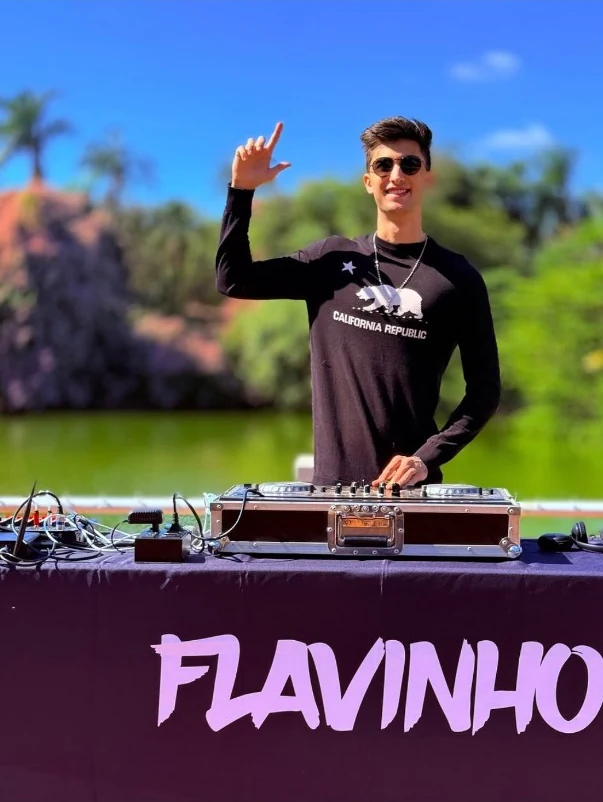
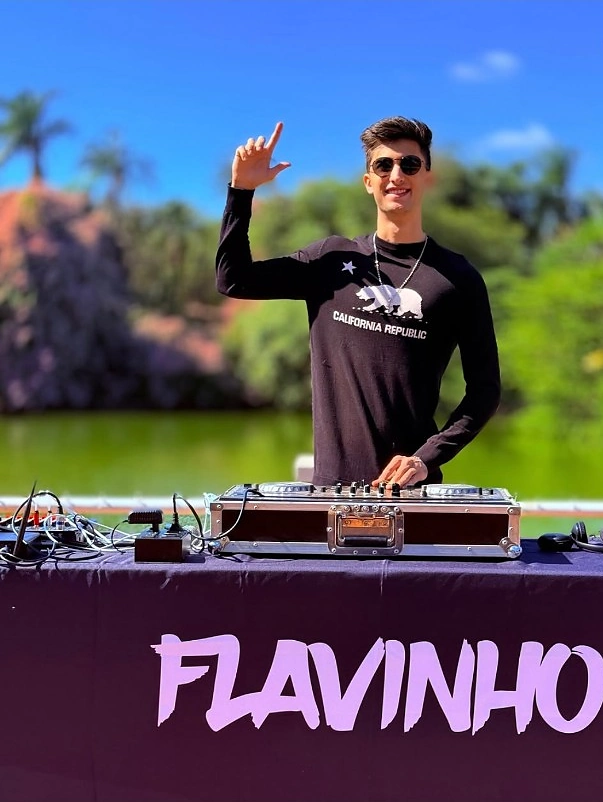
Melhora nitidez das fotos, remove legendas e inclui foto da página Sobre

diff --git a/fotos.html b/fotos.html
@@ -4,7 +4,7 @@
 <meta charset="utf-8"><meta name="viewport" content="width=device-width, initial-scale=1"><meta name="theme-color" content="#07080d">
 <meta name="description" content="Flavinnho. Música, energia e conexão. Conheça o artista e acompanhe as próximas novidades.">
 <title>Fotos — Flavinnho</title>
-<link rel="icon" href="./assets/favicon.svg" type="image/svg+xml"><link rel="preload" as="image" href="./assets/flavinnho-live.jpg?v=2"><link rel="stylesheet" href="./styles.css?v=3"><link rel="stylesheet" href="./reference-theme.css?v=11"><link rel="stylesheet" href="./gallery.css?v=1"><script src="./script.js?v=4" defer></script><script src="./gallery.js?v=1" defer></script>
+<link rel="icon" href="./assets/favicon.svg" type="image/svg+xml"><link rel="preload" as="image" href="./assets/flavinnho-live.jpg?v=2"><link rel="stylesheet" href="./styles.css?v=3"><link rel="stylesheet" href="./reference-theme.css?v=11"><link rel="stylesheet" href="./gallery.css?v=2"><script src="./script.js?v=4" defer></script><script src="./gallery.js?v=2" defer></script>
 </head>
 <body class="page-fotos">
 <a class="skip-link" href="#conteudo">Pular para o conteúdo</a><div class="stage" aria-hidden="true"></div>
@@ -17,22 +17,23 @@
 <div class="gallery-heading"><p class="eyebrow">PELA LENTE</p><h2 id="photos-title">SONS QUE VIRAM <em>HISTÓRIAS.</em></h2><p class="gallery-intro">Cada palco, uma história. Cada foto, um pouco dessa energia.</p></div>
 <div class="photo-carousel" role="region" aria-roledescription="carrossel" aria-label="Fotos do Flavinnho">
 <div class="photo-deck">
-<a class="photo-card" href="./assets/galeria/palco-azul.webp" style="--photo-position:50%" aria-label="Abrir foto 1: Flavinnho de headphones tocando sob a luz azul do palco"><img src="./assets/galeria/palco-azul.webp" alt="Flavinnho de headphones tocando sob a luz azul do palco" width="603" height="920" loading="eager" draggable="false"><span class="photo-card-hint" aria-hidden="true">VER FOTO <span>↗</span></span></a>
-<a class="photo-card" href="./assets/galeria/energia-no-palco.webp" style="--photo-position:30%" aria-label="Abrir foto 2: Flavinnho sorrindo com um canhão de efeitos no palco"><img src="./assets/galeria/energia-no-palco.webp" alt="Flavinnho sorrindo com um canhão de efeitos no palco" width="690" height="466" loading="eager" draggable="false"><span class="photo-card-hint" aria-hidden="true">VER FOTO <span>↗</span></span></a>
-<a class="photo-card" href="./assets/galeria/ao-ar-livre.webp" style="--photo-position:50%" aria-label="Abrir foto 3: Flavinnho de óculos escuros com a mão levantada em uma apresentação ao ar livre"><img src="./assets/galeria/ao-ar-livre.webp" alt="Flavinnho de óculos escuros com a mão levantada em uma apresentação ao ar livre" width="603" height="802" loading="eager" draggable="false"><span class="photo-card-hint" aria-hidden="true">VER FOTO <span>↗</span></span></a>
-<a class="photo-card" href="./assets/galeria/na-controladora.webp" style="--photo-position:50%" aria-label="Abrir foto 4: Flavinnho concentrado na controladora em um ambiente escuro"><img src="./assets/galeria/na-controladora.webp" alt="Flavinnho concentrado na controladora em um ambiente escuro" width="603" height="920" loading="lazy" draggable="false"><span class="photo-card-hint" aria-hidden="true">VER FOTO <span>↗</span></span></a>
-<a class="photo-card" href="./assets/galeria/no-microfone.webp" style="--photo-position:50%" aria-label="Abrir foto 5: Flavinnho cantando ao microfone durante uma apresentação"><img src="./assets/galeria/no-microfone.webp" alt="Flavinnho cantando ao microfone durante uma apresentação" width="603" height="920" loading="lazy" draggable="false"><span class="photo-card-hint" aria-hidden="true">VER FOTO <span>↗</span></span></a>
-<a class="photo-card" href="./assets/galeria/retrato.webp" style="--photo-position:50%" aria-label="Abrir foto 6: Flavinnho sorrindo em frente a uma parede colorida"><img src="./assets/galeria/retrato.webp" alt="Flavinnho sorrindo em frente a uma parede colorida" width="603" height="920" loading="lazy" draggable="false"><span class="photo-card-hint" aria-hidden="true">VER FOTO <span>↗</span></span></a>
-<a class="photo-card" href="./assets/galeria/set-externo.webp" style="--photo-position:50%" aria-label="Abrir foto 7: Flavinnho tocando ao ar livre com um lago ao fundo"><img src="./assets/galeria/set-externo.webp" alt="Flavinnho tocando ao ar livre com um lago ao fundo" width="603" height="798" loading="lazy" draggable="false"><span class="photo-card-hint" aria-hidden="true">VER FOTO <span>↗</span></span></a>
-<a class="photo-card" href="./assets/galeria/voz-e-musica.webp" style="--photo-position:65%" aria-label="Abrir foto 8: Flavinnho com microfone e headphones ao lado da controladora"><img src="./assets/galeria/voz-e-musica.webp" alt="Flavinnho com microfone e headphones ao lado da controladora" width="603" height="460" loading="lazy" draggable="false"><span class="photo-card-hint" aria-hidden="true">VER FOTO <span>↗</span></span></a>
-<a class="photo-card" href="./assets/galeria/producao.webp" style="--photo-position:50%" aria-label="Abrir foto 9: Flavinnho tocando em uma controladora Pioneer DJ"><img src="./assets/galeria/producao.webp" alt="Flavinnho tocando em uma controladora Pioneer DJ" width="1050" height="1400" loading="eager" draggable="false"><span class="photo-card-hint" aria-hidden="true">VER FOTO <span>↗</span></span></a>
-<a class="photo-card" href="./assets/galeria/retrato-retro.webp" style="--photo-position:50%" aria-label="Abrir foto 10: Retrato estilizado de Flavinnho com jaqueta de couro em frente à controladora"><img src="./assets/galeria/retrato-retro.webp" alt="Retrato estilizado de Flavinnho com jaqueta de couro em frente à controladora" width="620" height="804" loading="eager" draggable="false"><span class="photo-card-hint" aria-hidden="true">VER FOTO <span>↗</span></span></a>
+<a class="photo-card" href="./assets/galeria/palco-azul.webp?v=2" style="--photo-position:50%" aria-label="Abrir foto 1: Flavinnho de headphones tocando sob a luz azul do palco"><img src="./assets/galeria/palco-azul.webp?v=2" alt="Flavinnho de headphones tocando sob a luz azul do palco" width="603" height="920" loading="eager" draggable="false"><span class="photo-card-hint" aria-hidden="true">VER FOTO <span>↗</span></span></a>
+<a class="photo-card" href="./assets/galeria/energia-no-palco.webp?v=2" style="--photo-position:30%" aria-label="Abrir foto 2: Flavinnho sorrindo com um canhão de efeitos no palco"><img src="./assets/galeria/energia-no-palco.webp?v=2" alt="Flavinnho sorrindo com um canhão de efeitos no palco" width="690" height="466" loading="eager" draggable="false"><span class="photo-card-hint" aria-hidden="true">VER FOTO <span>↗</span></span></a>
+<a class="photo-card" href="./assets/galeria/ao-ar-livre.webp?v=2" style="--photo-position:50%" aria-label="Abrir foto 3: Flavinnho de óculos escuros com a mão levantada em uma apresentação ao ar livre"><img src="./assets/galeria/ao-ar-livre.webp?v=2" alt="Flavinnho de óculos escuros com a mão levantada em uma apresentação ao ar livre" width="603" height="802" loading="eager" draggable="false"><span class="photo-card-hint" aria-hidden="true">VER FOTO <span>↗</span></span></a>
+<a class="photo-card" href="./assets/galeria/na-controladora.webp?v=2" style="--photo-position:50%" aria-label="Abrir foto 4: Flavinnho concentrado na controladora em um ambiente escuro"><img src="./assets/galeria/na-controladora.webp?v=2" alt="Flavinnho concentrado na controladora em um ambiente escuro" width="603" height="920" loading="lazy" draggable="false"><span class="photo-card-hint" aria-hidden="true">VER FOTO <span>↗</span></span></a>
+<a class="photo-card" href="./assets/galeria/no-microfone.webp?v=2" style="--photo-position:50%" aria-label="Abrir foto 5: Flavinnho cantando ao microfone durante uma apresentação"><img src="./assets/galeria/no-microfone.webp?v=2" alt="Flavinnho cantando ao microfone durante uma apresentação" width="603" height="920" loading="lazy" draggable="false"><span class="photo-card-hint" aria-hidden="true">VER FOTO <span>↗</span></span></a>
+<a class="photo-card" href="./assets/galeria/retrato.webp?v=2" style="--photo-position:50%" aria-label="Abrir foto 6: Flavinnho sorrindo em frente a uma parede colorida"><img src="./assets/galeria/retrato.webp?v=2" alt="Flavinnho sorrindo em frente a uma parede colorida" width="603" height="920" loading="lazy" draggable="false"><span class="photo-card-hint" aria-hidden="true">VER FOTO <span>↗</span></span></a>
+<a class="photo-card" href="./assets/galeria/set-externo.webp?v=2" style="--photo-position:50%" aria-label="Abrir foto 7: Flavinnho tocando ao ar livre com um lago ao fundo"><img src="./assets/galeria/set-externo.webp?v=2" alt="Flavinnho tocando ao ar livre com um lago ao fundo" width="603" height="798" loading="lazy" draggable="false"><span class="photo-card-hint" aria-hidden="true">VER FOTO <span>↗</span></span></a>
+<a class="photo-card" href="./assets/galeria/voz-e-musica.webp?v=2" style="--photo-position:65%" aria-label="Abrir foto 8: Flavinnho com microfone e headphones ao lado da controladora"><img src="./assets/galeria/voz-e-musica.webp?v=2" alt="Flavinnho com microfone e headphones ao lado da controladora" width="603" height="460" loading="lazy" draggable="false"><span class="photo-card-hint" aria-hidden="true">VER FOTO <span>↗</span></span></a>
+<a class="photo-card" href="./assets/galeria/producao.webp?v=2" style="--photo-position:50%" aria-label="Abrir foto 9: Flavinnho tocando em uma controladora Pioneer DJ"><img src="./assets/galeria/producao.webp?v=2" alt="Flavinnho tocando em uma controladora Pioneer DJ" width="1152" height="1536" loading="eager" draggable="false"><span class="photo-card-hint" aria-hidden="true">VER FOTO <span>↗</span></span></a>
+<a class="photo-card" href="./assets/galeria/retrato-retro.webp?v=2" style="--photo-position:50%" aria-label="Abrir foto 10: Retrato estilizado de Flavinnho com jaqueta de couro em frente à controladora"><img src="./assets/galeria/retrato-retro.webp?v=2" alt="Retrato estilizado de Flavinnho com jaqueta de couro em frente à controladora" width="620" height="804" loading="eager" draggable="false"><span class="photo-card-hint" aria-hidden="true">VER FOTO <span>↗</span></span></a>
+<a class="photo-card" href="./assets/flavinnho-sorrindo.jpg" style="--photo-position:50%" aria-label="Abrir foto 11: Flavinnho sorrindo no palco iluminado de azul"><img src="./assets/flavinnho-sorrindo.jpg" alt="Flavinnho sorrindo no palco iluminado de azul" width="1152" height="1536" loading="eager" draggable="false"><span class="photo-card-hint" aria-hidden="true">VER FOTO <span>↗</span></span></a>
 </div>
-<div class="gallery-controls" hidden><button type="button" class="gallery-arrow" data-direction="-1" aria-label="Foto anterior">←</button><span class="gallery-counter" aria-hidden="true">01 <span>/ 10</span></span><button type="button" class="gallery-arrow" data-direction="1" aria-label="Próxima foto">→</button><button type="button" class="gallery-play" aria-label="Pausar passagem automática">PAUSAR <span aria-hidden="true">Ⅱ</span></button></div>
-<p class="gallery-hint" hidden>Arraste para explorar · Toque na foto central para ampliar</p>
+<div class="gallery-controls" hidden><button type="button" class="gallery-arrow" data-direction="-1" aria-label="Foto anterior">←</button><span class="gallery-counter" aria-hidden="true">01 <span>/ 11</span></span><button type="button" class="gallery-arrow" data-direction="1" aria-label="Próxima foto">→</button><button type="button" class="gallery-play" aria-label="Pausar passagem automática">PAUSAR <span aria-hidden="true">Ⅱ</span></button></div>
+
 <p class="gallery-status sr-only" aria-live="polite" aria-atomic="true"></p>
 </div>
-<dialog class="photo-viewer" aria-label="Foto ampliada"><button type="button" class="viewer-close" aria-label="Fechar foto" autofocus>×</button><img alt=""><p class="viewer-caption"></p></dialog>
+<dialog class="photo-viewer" aria-label="Foto ampliada"><button type="button" class="viewer-close" aria-label="Fechar foto" autofocus>×</button><img alt=""></dialog>
 </section>
 </main>
 <footer><a class="wordmark" href="./index.html" aria-label="Flavinnho — voltar ao início"><img src="./assets/flavinnho-logo.svg" alt="Flavinnho" width="793" height="149"></a><p>MÚSICA · ENERGIA · CONEXÃO</p><a class="back-top" href="#conteudo">VOLTAR AO TOPO ↑</a><small>© <span id="year">2026</span> Flavinnho</small></footer>

diff --git a/gallery.css b/gallery.css
@@ -18,20 +18,18 @@ html { scrollbar-gutter: stable; }
 .photo-carousel button { color: white; font-family: inherit; cursor: pointer; }
 .photo-carousel button:focus-visible, .photo-card:focus-visible, .viewer-close:focus-visible { outline: 2px solid #e7baff; outline-offset: 5px; }
 .gallery-controls { display: flex; align-items: center; justify-content: center; gap: 20px; margin: 12px 20px 0; }
-.gallery-controls[hidden], .gallery-hint[hidden] { display: none; }
+.gallery-controls[hidden] { display: none; }
 .gallery-arrow { height: 46px; width: 46px; border-radius: 50%; border: 1px solid #bd43f866; background: #14091f; font-size: 23px; }
 .gallery-arrow:hover, .gallery-play:hover { border-color: #d47aff; background: #331449; }
 .gallery-counter { font-size: 14px; font-variant-numeric: tabular-nums; letter-spacing: 2px; }
 .gallery-counter span { font-size: 11px; color: #82738f; }
 .gallery-play { display: flex; align-items: center; gap: 12px; padding: 12px 16px; min-height: 44px; border: 1px solid #ffffff26; border-radius: 30px; background: transparent; font-size: 8px; letter-spacing: 1.5px; }
 .gallery-play span { font-size: 13px; }
-.gallery-hint { text-align: center; color: #a99cb5; font-size: 11px; line-height: 1.6; margin: 23px 20px 0; }
 html:has(.photo-viewer[open]) { overflow: hidden; }
 .photo-viewer { width: fit-content; max-width: calc(100vw - 28px); max-height: 94svh; padding: 52px 12px 12px; margin: auto; border: 1px solid #ac3bf077; border-radius: 16px; background: #0b0612; color: white; }
 .photo-viewer::backdrop { background: #020205e8; backdrop-filter: blur(8px); }
 .photo-viewer img { display: block; width: auto; height: auto; max-width: 85vw; max-height: 73svh; margin: auto; object-fit: contain; }
 .viewer-close { position: absolute; top: 8px; right: 10px; width: 36px; height: 36px; border: 1px solid #bd43f899; border-radius: 50%; background: #1d0d28; color: white; font-size: 25px; cursor: pointer; }
-.viewer-caption { max-width: 600px; margin: 12px auto 0; text-align: center; font-size: 11px; line-height: 1.5; color: #bcb4c9; }
 @media (max-width: 650px) {
   .page-fotos .photos { padding-top: calc(var(--header) + 40px); padding-bottom: 45px; }
   .gallery-heading h2 { font-size: clamp(32px, 8vw, 48px); }

diff --git a/gallery.js b/gallery.js
@@ -116,7 +116,6 @@
     const image = card.querySelector('img');
     viewer.querySelector('img').src = card.href;
     viewer.querySelector('img').alt = image.alt;
-    viewer.querySelector('.viewer-caption').textContent = image.alt;
     viewer.showModal();
     schedule();
   }));
@@ -143,7 +142,6 @@
   new ResizeObserver(render).observe(deck);
   carousel.classList.add('is-ready');
   controls.hidden = false;
-  carousel.querySelector('.gallery-hint').hidden = false;
   render();
   schedule();
 })();
